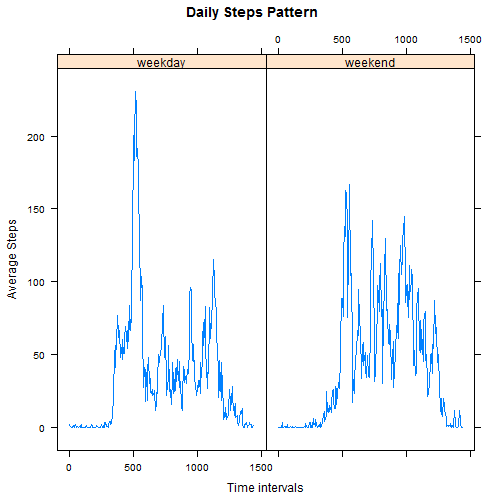
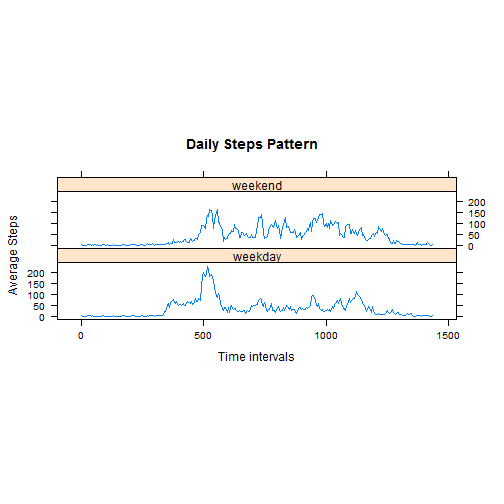
try aspect = xy in xyplot to make the time series plot stack vertically.

diff --git a/PA1_template.html b/PA1_template.html
@@ -355,19 +355,27 @@ daily_pattern_aggregated &lt;- rbind(daily_pattern_weekends, daily_pattern_weekd
 attach(daily_pattern_aggregated)
 </code></pre>
 
-<pre><code>## The following objects are masked from daily_pattern_aggregated (pos = 4):
+<pre><code>## The following objects are masked from daily_pattern_aggregated (pos = 3):
 ## 
 ##     absolute.interval, average.steps, interval, weekends_or_not
 ## 
-## The following objects are masked from daily_pattern_aggregated (pos = 5):
+## The following objects are masked from daily_pattern_aggregated (pos = 4):
+## 
+##     absolute.interval, average.steps, interval, weekends_or_not
+## 
+## The following objects are masked from daily_pattern_aggregated (pos = 6):
+## 
+##     absolute.interval, average.steps, interval, weekends_or_not
+## 
+## The following objects are masked from daily_pattern_aggregated (pos = 7):
 ## 
 ##     average.steps, interval, weekends_or_not
 </code></pre>
 
-<pre><code class="r">xyplot(average.steps~absolute.interval|weekends_or_not, main = &quot;Daily Steps Pattern&quot;, ylab = &quot;Average Steps&quot;, xlab = &quot;Time intervals&quot;, type = &quot;l&quot;)
+<pre><code class="r">xyplot(average.steps~absolute.interval|weekends_or_not, main = &quot;Daily Steps Pattern&quot;, ylab = &quot;Average Steps&quot;, xlab = &quot;Time intervals&quot;, type = &quot;l&quot;, aspect = &quot;xy&quot;)
 </code></pre>
 
[2 lines of base64/hex data omitted]
 
 <p>The difference of daily pattern may be better identified by the distributions of the average steps:</p>
 

diff --git a/PA1_template.md b/PA1_template.md
@@ -196,17 +196,25 @@ attach(daily_pattern_aggregated)
 ```
 
 ```
+## The following objects are masked from daily_pattern_aggregated (pos = 3):
+## 
+##     absolute.interval, average.steps, interval, weekends_or_not
+## 
 ## The following objects are masked from daily_pattern_aggregated (pos = 4):
 ## 
 ##     absolute.interval, average.steps, interval, weekends_or_not
 ## 
-## The following objects are masked from daily_pattern_aggregated (pos = 5):
+## The following objects are masked from daily_pattern_aggregated (pos = 6):
+## 
+##     absolute.interval, average.steps, interval, weekends_or_not
+## 
+## The following objects are masked from daily_pattern_aggregated (pos = 7):
 ## 
 ##     average.steps, interval, weekends_or_not
 ```
 
 ```r
-xyplot(average.steps~absolute.interval|weekends_or_not, main = "Daily Steps Pattern", ylab = "Average Steps", xlab = "Time intervals", type = "l")
+xyplot(average.steps~absolute.interval|weekends_or_not, main = "Daily Steps Pattern", ylab = "Average Steps", xlab = "Time intervals", type = "l", aspect = "xy")
 ```
 
 ![plot of chunk unnamed-chunk-16](figure/unnamed-chunk-16-1.png) 
